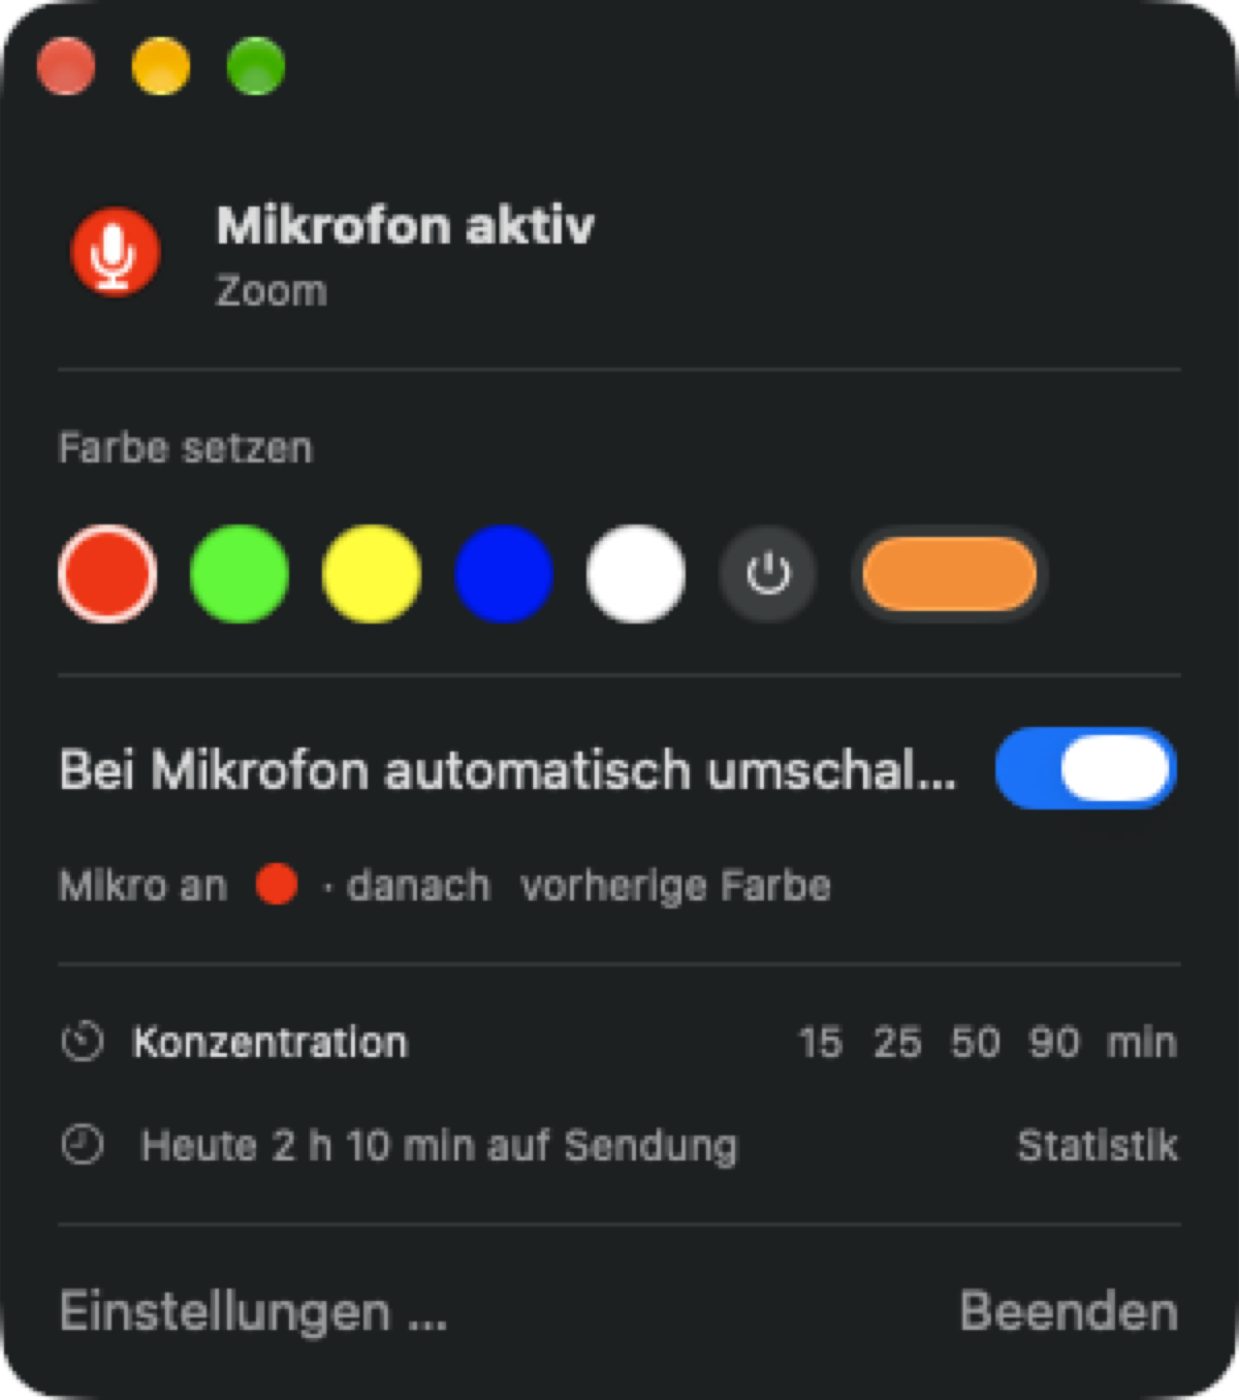
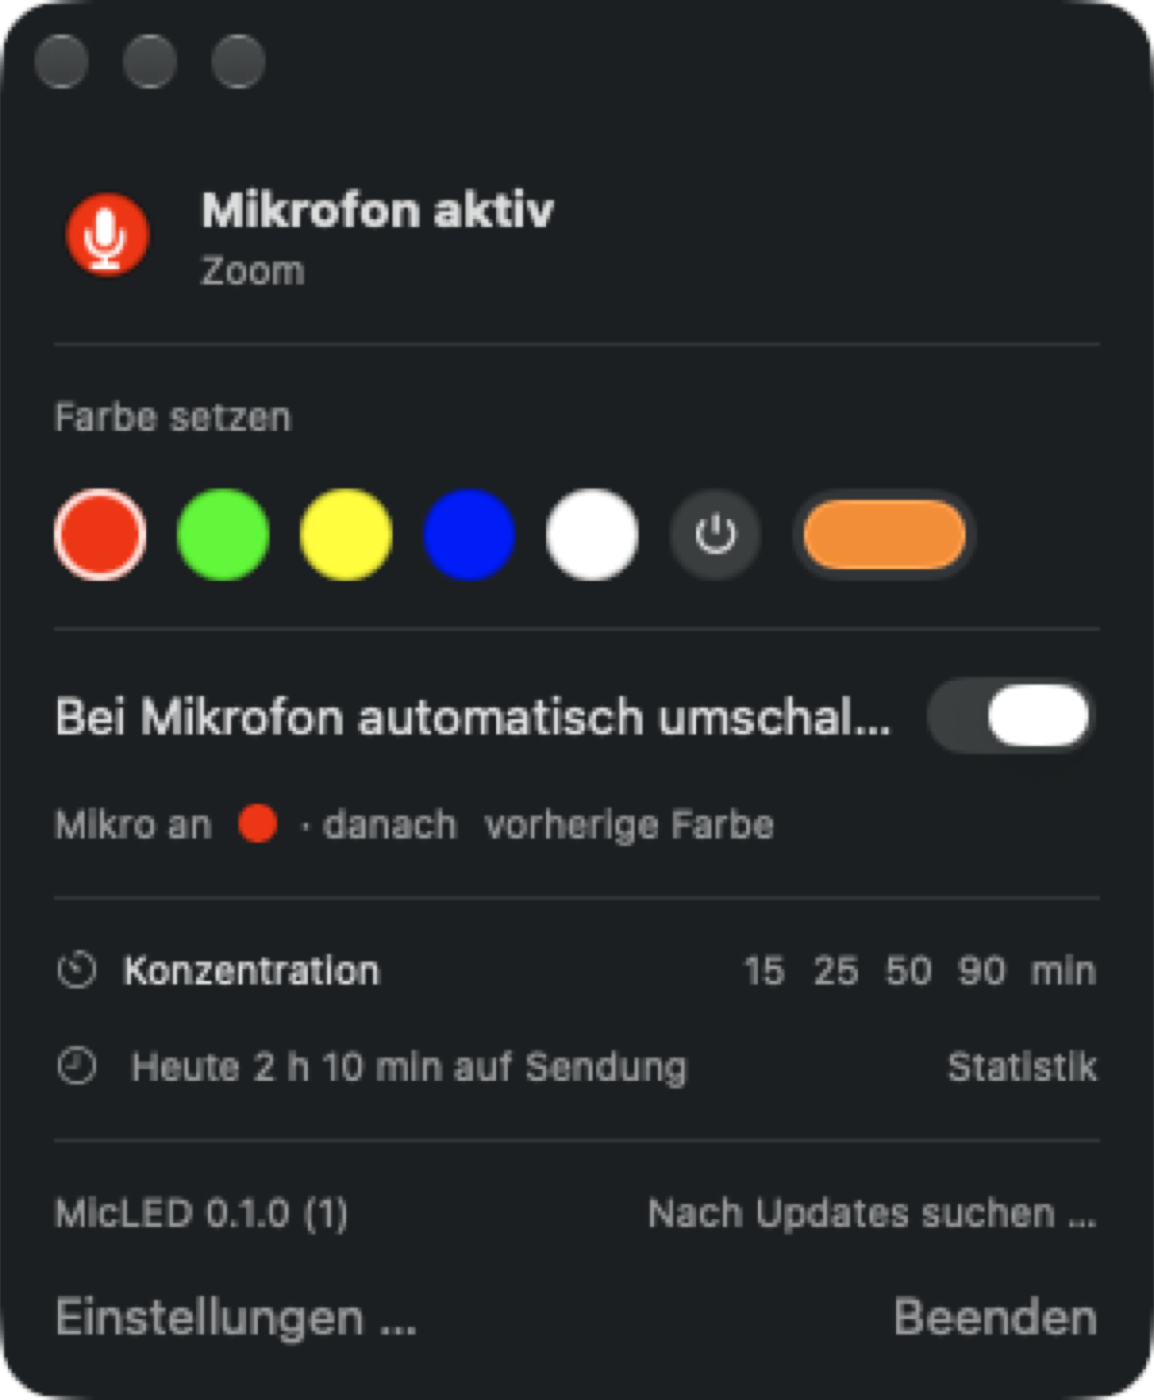
docs: describe updates and the Sparkle key #13

diff --git a/README.md b/README.md
@@ -283,7 +283,7 @@ crates/micled-core   Lampe (USB/Webhook), Mikrofon und Kamera, Logik, Statusdate
 crates/micled-cli    Kommandozeile `micled`
 crates/micled-ffi    UniFFI-Schicht für Swift
 apps/MicLED          SwiftUI-Menüleisten-App, project.yml für xcodegen
-scripts/             build-rust.sh, bump-build.sh, release.sh, screenshots.sh
+scripts/             build-rust.sh, bump-build.sh, release.sh, appcast.sh, screenshots.sh
 docs/images/         Screenshots und Videos von Lampe und Pixoo (lamp.gif, pixoo.gif) für diese README
 ```
 
@@ -297,16 +297,37 @@ scripts/screenshots.sh
 
 Das Skript baut die Debug-App, startet sie mit Beispieldaten (Schalter `--screenshots`, nur in Debug-Builds) und nimmt Menü, Einstellungen (oben und bei Govee/Nanoleaf) und Statistik in Hell und Dunkel nach `docs/images/` auf. Lampe, Slack und Nextcloud bleiben dabei unberührt. Das Terminal braucht einmalig das Recht „Bildschirmaufnahme“ (Systemeinstellungen › Datenschutz & Sicherheit).
 
+## Updates
+
+MicLED sucht einmal am Tag mit [Sparkle](https://sparkle-project.org) nach einer neuen Version und fragt vor der Installation nach. Von Hand geht das im Menü und im Kontextmenü mit „Nach Updates suchen …“, abschalten lässt sich die Suche in den Einstellungen unter „Updates“. Damit Sparkle die App ersetzen kann, muss sie in „Programme“ liegen und nicht in „Downloads“. Entwickler-Builds suchen nicht nach Updates.
+
 ## Release
+
+Einmalig: das Notarisierungsprofil und der Sparkle-Schlüssel. Der private Schlüssel bleibt im Anmelde-Schlüsselbund (Eintrag `micled`) und kommt nie ins Repo.
 
 ```bash
 xcrun notarytool store-credentials micled --apple-id <Apple-ID> --team-id <TEAM> --password <app-spezifisch>
+
+(cd apps/MicLED && xcodegen generate)
+xcodebuild -resolvePackageDependencies -project apps/MicLED/MicLED.xcodeproj -clonedSourcePackagesDirPath build/spm
+build/spm/artifacts/sparkle/Sparkle/bin/generate_keys --account micled
+build/spm/artifacts/sparkle/Sparkle/bin/generate_keys --account micled -x <datei>   # Sicherung für den Passwortmanager, danach löschen
+```
+
+Den ausgegebenen öffentlichen Schlüssel in `apps/MicLED/Resources/Info.plist` bei `SUPublicEDKey` eintragen und committen. Den Schlüssel nie ersetzen: Installierte Apps nehmen nur Updates an, die mit ihm signiert sind.
+
+Für jedes Release:
+
+```bash
 scripts/bump-build.sh
+git commit -am "chore(release): build <N>"
 scripts/release.sh
 ```
 
-`release.sh` prüft zuerst Zertifikat, Notarisierungsprofil, Team-ID und sauberen Git-Stand. Danach folgen Archiv, Export mit Developer ID, Notarisierung, Stapeln und Prüfung mit `codesign`, `spctl` und `stapler`.
+`release.sh` prüft zuerst Zertifikat, Notarisierungsprofil, Team-ID, sauberen Git-Stand, den Sparkle-Schlüssel und ob die Build-Nummer über der veröffentlichten liegt, denn Sparkle bietet nur eine höhere an. Danach folgen Archiv, Export mit Developer ID, Notarisierung, Stapeln und Prüfung mit `codesign`, `spctl` und `stapler`. Zum Schluss signiert `scripts/appcast.sh` das ZIP und schreibt `dist/appcast.xml`.
+
+Beide Dateien gehören an den Release `v<Version>`, den GitHub als „Latest“ führt, das ZIP zuerst. Die App liest den Appcast unter `https://github.com/toolwerk/micled/releases/latest/download/appcast.xml`. Den passenden `gh release upload`-Befehl gibt das Skript am Ende aus.
 
 ## Lizenz
 
-MIT
+MIT. Die App enthält [Sparkle](https://github.com/sparkle-project/Sparkle), ebenfalls MIT.

diff --git a/CHANGELOG.md b/CHANGELOG.md
@@ -10,6 +10,7 @@ Alle nennenswerten Änderungen an MicLED. Format nach [Keep a Changelog](https:/
 - Ulanzi-Pixeluhr mit AWTRIX 3: zeigt „ON AIR“ in der Mikro- oder Kamerafarbe, die Restminuten des Timers oder „FOKUS“ als Text bis zum Ende, danach wieder die normale Anzeige. Einstellungen mit „Verbindung prüfen“, Kommandozeile `micled awtrix <adresse>`.
 - Philips Hue über die Hue Bridge: eine Lampe oder ein Raum zeigt die Farbe für Call, Timer und Fokus und bekommt danach An/Aus, Farbe und Helligkeit von vorher zurück. Koppeln per Knopf an der Bridge, App-Schlüssel im Schlüsselbund, Zertifikat der Bridge wird beim Koppeln festgehalten. Kommandozeile `micled hue pair` und `micled hue test`.
 - Govee und Nanoleaf im eigenen Netz, je mehrere Geräte: Sie zeigen die Farbe für Call, Timer und Fokus und bekommen danach An/Aus, Helligkeit und Farbe von vorher zurück, Nanoleaf auch einen gespeicherten Effekt. Suche im eigenen Netz oder Adresse von Hand, Nanoleaf-Schlüssel im Schlüsselbund. Kommandozeile `micled govee scan|test` und `micled nanoleaf scan|pair|test`.
+- Automatische Updates mit Sparkle: MicLED sucht täglich nach einer neuen Version und fragt vor der Installation nach. „Nach Updates suchen …“ im Menü und Kontextmenü, abschaltbar in den Einstellungen. `scripts/release.sh` signiert das ZIP und schreibt den Appcast.
 - „Keine Lampe“ in den Einstellungen: MicLED zeigt den Status dann nur auf dem Display, in Slack und am Webhook.
 
 ## [0.1.0] - 2026-11-05

diff --git a/CLAUDE.md b/CLAUDE.md
@@ -18,6 +18,7 @@ Menüleisten-App für macOS: schaltet eine Luxafor-Lampe bei aktivem Mikrofon um
 - Xcode-Projekt nur über `apps/MicLED/project.yml` und `xcodegen generate` ändern.
 - Rust baut im Aggregate-Target `RustCore` (nicht `MicLEDCore` nennen). Bibliothek und Header direkt einbinden, kein XCFramework, und explizite Module aus lassen. Sonst baut Xcode nach einer API-Änderung gegen den alten Header.
 - `apps/MicLED/Generated/` und `build/` sind generiert und nicht eingecheckt.
+- Updates laufen über Sparkle in `UpdaterController.swift`, nicht im Rust-Kern, weil Sparkle ein AppKit-Framework ist. Den EdDSA-Schlüssel (Schlüsselbund, Konto `micled`) nie ersetzen, sonst nehmen installierte Apps keine Updates mehr an. Sparkle vergleicht `CFBundleVersion`, jedes Release braucht eine höhere Build-Nummer.
 - Swift 6, macOS 14. Statusmeldungen aus Rust kommen auf einem Hintergrund-Thread und werden per `Task { @MainActor in }` übergeben.
 
 ## Prüfen
